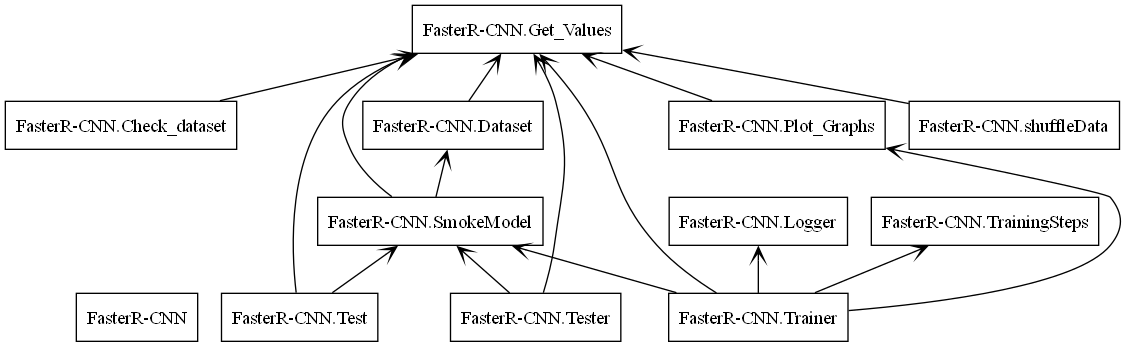
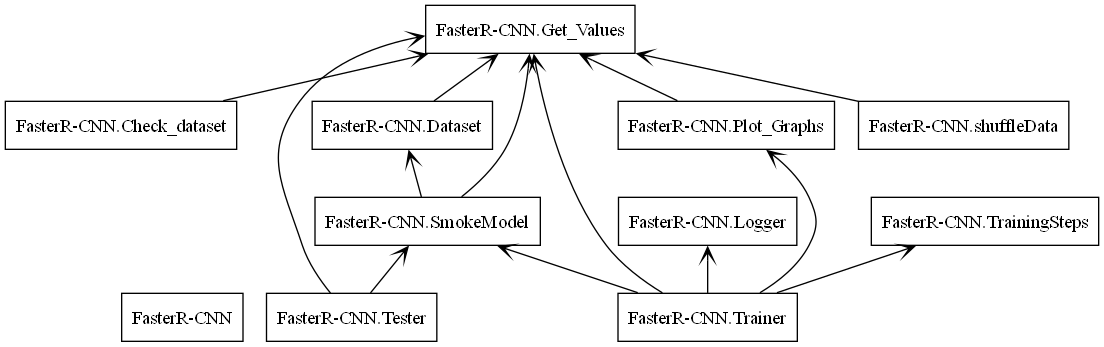
parallel processing

diff --git a/FasterR-CNN/Tester.py b/FasterR-CNN/Tester.py
@@ -1,22 +1,22 @@
 ### Testing model predictions
-import torch
-import xml.etree.ElementTree as ET
-from PIL import Image, ImageDraw
-from pathlib import Path
-from Get_Values import checkColab, setTestValues
 import os
-from torchmetrics.detection.mean_ap import MeanAveragePrecision
+import time
+import xml.etree.ElementTree as ET
+from pathlib import Path
+
 import matplotlib
 import matplotlib.pyplot as plt
-from torchvision.io import read_image
-from torchvision.utils import draw_bounding_boxes, draw_segmentation_masks
-import torch.utils.benchmark as benchmark
-from torchvision.ops import box_iou
-from tabulate import tabulate
-import time
-from SmokeModel import SmokeModel
 import torch
+import torch.utils.benchmark as benchmark
+import concurrent.futures
+from Get_Values import checkColab, setTestValues
+from SmokeModel import SmokeModel
+from tabulate import tabulate
+from torchmetrics.detection.mean_ap import MeanAveragePrecision
+from torchvision.ops import box_iou
 from torchvision.transforms import v2 as T
+from torchvision.utils import draw_bounding_boxes
+
 
 class Tester:
     #Constructor
@@ -73,7 +73,7 @@ class Tester:
         self.start_time = time.time()
         # Walks through dir_path, for each file call predictBbox and pass file path
         for batch, (image_tensor, filename) in enumerate(test_dataloader):
-            self.predictBbox(image_tensor, filename)
+            self.get_predictions(image_tensor, filename)
         self.get_results()
 
     # Transform images for model
@@ -84,46 +84,58 @@ class Tester:
         return T.Compose(transforms)
 
     # function to calculate the average time to make a prediction
-    def getAvgTime(self, benchmark_times):
+    def get_avg_time(self, benchmark_times):
         total_time = sum(benchmark_times)  # get sum
         avg_time = total_time / len(benchmark_times)  # get average
         return avg_time
 
     # !!GETTING PREDICTION!!
-    def predictBbox(self, image_tensor, filename):
-        global total_tp, total_fp, total_fn  # this makes me feel sick
+    def get_predictions(self, image_tensor, filename):
         # getting predictions
         self.model.to(self.device)  # put model on cpu or gpu
         # set model to evaluation mode
         self.model.eval()
-        #print("image:", image, "image_tensor", image_tensor, "filename", filename)
-        filename = filename[0] # tuples
-        x = image_tensor[0].to(self.device)
-        print("x.shape before", x.shape)
-        # print(x)
-        # 3 colour channels and move to device (pretty sure it already is)
-        #print(type(x))
-        print("x.shape after", x.shape)
+        # print("image:", image, "image_tensor", image_tensor, "filename", filename)
+        filenames = list(files for files in filename)
+        image_tensors = list(tensor.to(self.device) for tensor in image_tensor)
 
-        if self.benchmark == True:
-            # start torch.utils.benchmark
-            # will run the below code a second time to measure performance
-            timer = benchmark.Timer(
-                stmt="model([x, ])",  # specify code to be benchmarked
-                globals={"x": x, "model": self.model}  # pass x and model to be used by benchmark
-            )
-
-            # record time taken
-            time_taken = timer.timeit(5)  # run code n times, gives average = time taken / n
-            print(f"Prediction time taken: {time_taken.mean:.4f} seconds")
-            self.benchmark_times.append(time_taken.mean)
+        if torch.cuda.is_available():
+            torch.cuda.synchronize()
 
         with torch.no_grad():
-            # Create predictions
-            predictions, _ = self.model([x, ])  # val loss
-            pred = predictions[0]
+            # benchmarking
+            if self.benchmark == True:
+                # start torch.utils.benchmark
+                # will run the below code a second time to measure performance
+                timer = benchmark.Timer(
+                    stmt="model(image_tensors)",  # specify code to be benchmarked
+                    globals={"image_tensors": image_tensors, "model": self.model}  # pass x and model to be used by benchmark
+                )
 
+                # record time taken
+                time_taken = timer.timeit(3) # run code n times, gives average = time taken / n
+                time_taken_ind = time_taken.mean / setTestValues("BATCH_SIZE")
+                print(f"Prediction time taken: {time_taken_ind:.4f} seconds")
+                self.benchmark_times.append(time_taken_ind)
+
+            outputs, _ = self.model(image_tensors)
+            temp_index = 1
+            # parallel processing after getting model predictions, might aswell
+            futures = []
+            with concurrent.futures.ThreadPoolExecutor() as executor:
+                for image_tensor, prediction, filename in zip(image_tensor, outputs, filenames):
+                    print(f"{temp_index}! - pred:", prediction, filename)
+                    temp_index += 1
+                    futures.append(executor.submit(self.process_predictions, image_tensor, prediction, filename))
+                    #self.process_predictions(image_tensor, prediction, filename)
+            print("outputs", outputs)
+            concurrent.futures.wait(futures)
+
+    def process_predictions(self, image_tensor, predictions, filename):
+        global total_tp, total_fp, total_fn
+        pred = predictions
         # Normalize the image
+        x = image_tensor
         image = (255.0 * (x - x.min()) / (x.max() - x.min())).to(torch.uint8)
         # Filter predictions based on confidence score
         filtered_labels = []
@@ -143,9 +155,6 @@ class Tester:
         annotation_path = os.path.join(self.test_annot_dir, f"{image_id}.xml")
         ground_truth = self.parse_xml(annotation_path)
 
-        # get image size
-        image_size = predictions[0].get("image_size", [image.shape[1], image.shape[2]])
-
         # format predictions for mAP calculation
         predicted = {
             "boxes": torch.stack(filtered_boxes) if filtered_boxes else torch.empty((0, 4), dtype=torch.float),
@@ -155,17 +164,16 @@ class Tester:
         }
 
         # getting ground truth size (small, medium, large)
+        # filename stored with format in dict, might change dict later
         gt_size = self.image_gt_size.get(filename + ".jpeg")
         print(gt_size)
 
         # getting tp, tn, fp, fn for each image
-        metrics = self.getImageVal(
-            image_path=filename,
+        metrics = self.get_image_val(
             pred_score=predicted["scores"].to("cpu"),  # cpu or cry
             pred_box=predicted["boxes"].to("cpu"),
             ground_truth=ground_truth,
             confidence_threshold=self.confidence_threshold,
-            image_size=image_size,
             ap_value=self.ap_value,
             gt_size=gt_size
         )
@@ -188,20 +196,20 @@ class Tester:
             self.map_metricLargeB.update([predicted], [ground_truth])
 
         # mAP update
-        self.map_metricA.update([predicted], [ground_truth])
-        self.map_metricB.update([predicted], [ground_truth])
+        self.map_metricGlobalA.update([predicted], [ground_truth])
+        self.map_metricGlobalB.update([predicted], [ground_truth])
 
         if (self.draw_no_true_positive_only):
             if (metrics["TP"] == 0):
                 # call function to display image with overlayed bboxes
-                self.display_prediction(filtered_labels, filtered_boxes, filtered_scores, image, ground_truth)
+                self.display_prediction(filtered_labels, filtered_boxes, filtered_scores, image, ground_truth, metrics)
         else:
             # call function to display image with overlayed bboxes
-            self.display_prediction(filtered_labels, filtered_boxes, filtered_scores, image, ground_truth)
+            self.display_prediction(filtered_labels, filtered_boxes, filtered_scores, image, ground_truth, metrics)
 
     # function for each image gets the number of true positive, false positive, etc
-    def getImageVal(self, image_path, pred_score, pred_box, ground_truth, confidence_threshold, image_size, ap_value,
-                    gt_size):
+    def get_image_val(self, pred_score, pred_box, ground_truth, confidence_threshold, ap_value,
+                      gt_size):
         # Filter predictions by confidence score
         filtered_boxes = []
         filtered_scores = []
@@ -233,7 +241,7 @@ class Tester:
                     matched_gts.add(max_idx.item())
                 else:
                     fp_count['global'] += 1
-                    if gt_size != 'none':  # Update size counter if not none'
+                    if gt_size != 'none':  # Update size counter if not none
                         fp_count[gt_size] += 1
 
             # Ground truth boxes not matched are FN
@@ -251,7 +259,6 @@ class Tester:
 
         # Return dictionary with results
         return {
-            "image": image_path,
             "TP": tp_count,
             "FP": fp_count,
             "FN": fn_count
@@ -260,16 +267,18 @@ class Tester:
 
 
     # !!GETTING GROUND TRUTH AND MAP VALUES AND PRECISION/RECALL
-    # initialising mAP metrics
-    def initialise_metrics(self): # could chnage this but meh
-        self.map_metricA = MeanAveragePrecision(iou_type='bbox', iou_thresholds=[0.5])
-        self.map_metricB = MeanAveragePrecision(iou_type='bbox', iou_thresholds=[0.3])
+    # function initialising mAP metrics
+    def initialise_metrics(self):
+        # kind of ugly but changing this would just make things way more complicated for no gain
+        self.map_metricGlobalA = MeanAveragePrecision(iou_type='bbox', iou_thresholds=[0.5])
+        self.map_metricGlobalB = MeanAveragePrecision(iou_type='bbox', iou_thresholds=[0.3])
         self.map_metricSmallA = MeanAveragePrecision(iou_type='bbox', iou_thresholds=[0.5])
         self.map_metricSmallB = MeanAveragePrecision(iou_type='bbox', iou_thresholds=[0.3])
         self.map_metricMediumA = MeanAveragePrecision(iou_type='bbox', iou_thresholds=[0.5])
         self.map_metricMediumB = MeanAveragePrecision(iou_type='bbox', iou_thresholds=[0.3])
         self.map_metricLargeA = MeanAveragePrecision(iou_type='bbox', iou_thresholds=[0.5])
         self.map_metricLargeB = MeanAveragePrecision(iou_type='bbox', iou_thresholds=[0.3])
+        self.map_metricLocal = MeanAveragePrecision(iou_type='bbox', iou_thresholds=[0.3])
 
     # Need ground truths to calculate mAP
     # Function parse xml for ground truths (copied from Dataset class)
@@ -347,10 +356,10 @@ class Tester:
         categorized_images_dict = {}
 
         for root, dirs, files in os.walk(test_image_dir):
-            for file_name in files:
-                if file_name.endswith(".jpeg"): # dont really need but whatever
+            for filename in files:
+                if filename.endswith(".jpeg"): # dont really need but whatever
                     # Get corresponding XML annotation file
-                    get_annotation = os.path.join(test_annot_dir, file_name.replace(".jpeg", ".xml")) # image and annot have same names
+                    get_annotation = os.path.join(test_annot_dir, filename.replace(".jpeg", ".xml")) # image and annot have same names
 
                     # Parse XML to get areas (ground truth)
                     ground_truth_area = self.parse_xml(get_annotation, True)
@@ -370,7 +379,7 @@ class Tester:
                         size_category = "none"
 
                     # Store the size category in dictionary
-                    categorized_images_dict[file_name] = size_category
+                    categorized_images_dict[filename] = size_category
 
         # Count occurrences of each size
         size_counts = {"small": 0, "medium": 0, "large": 0, "none": 0}
@@ -411,7 +420,7 @@ class Tester:
 
 
     # !!VISUALISATIONS!!
-    def display_prediction(self, filtered_labels, filtered_boxes, filtered_scores, image, ground_truth):
+    def display_prediction(self, filtered_labels, filtered_boxes, filtered_scores, image, ground_truth, metrics):
         if (self.plot_image == False):
             matplotlib.use('Agg')
         # !!! DISPLAYING PREDICTIONS THROUGH MATPLOT LIB !!!
@@ -438,6 +447,8 @@ class Tester:
         # draw ground truth bbox over predicted bbox over image
         output_image = draw_bounding_boxes(output_image, torch.stack(ground_truth_boxes),
                                            ["Ground Truth"] * len(ground_truth_boxes), colors="blue")
+
+        # registry increased ide.rest.api.request.per.minute to 100
         if (self.plot_image):
             time.sleep(2)
         plt.figure(figsize=(12, 12))
@@ -448,7 +459,7 @@ class Tester:
     # starting chain to display results
     def get_results(self):
         if self.benchmark:
-            avg_benchmark = str(round(self.getAvgTime(self.benchmark_times), 2)) + " seconds"
+            avg_benchmark = str(round(self.get_avg_time(self.benchmark_times), 2)) + " seconds"
         else:
             avg_benchmark = "N/A"
 
@@ -469,10 +480,10 @@ class Tester:
         self.final_mapLargeA = self.map_metricLargeA.compute()
         self.map_metricLargeB.sync()
         self.final_mapLargeB = self.map_metricLargeB.compute()
-        self.map_metricA.sync()
-        self.final_mapA = self.map_metricA.compute()
-        self.map_metricB.sync()
-        self.final_mapB = self.map_metricB.compute()
+        self.map_metricGlobalA.sync()
+        self.final_mapA = self.map_metricGlobalA.compute()
+        self.map_metricGlobalB.sync()
+        self.final_mapB = self.map_metricGlobalB.compute()
         # get precission and recall
         precision_recall = self.calculate_total_precision_recall()
         # get max vram

diff --git a/FasterR-CNN/SmokeModel.py b/FasterR-CNN/SmokeModel.py
@@ -42,13 +42,15 @@ class SmokeModel:
 
         return self.model, in_features, self.model.roi_heads.box_predictor
 
-    # function to get train, validate and test dataloaders
+    # functions to get train, validate and test dataloaders
     def get_dataloader(self):
         num_workers = os.cpu_count() # threads available
         batch_size = setTrainValues("BATCH_SIZE")
         test_batch_size = setTestValues("BATCH_SIZE")
         dataset_dir = Path(f"{self.base_dir}/Dataset/" + setTrainValues("dataset"))
         test_dataset_dir = Path(f"{self.base_dir}/Dataset/" + setTestValues("dataset"))
+
+        # splitting up dataloaders to only get them as needed
 
         # Load datasets
         train_dir = Dataset.smokeDataset(str(dataset_dir) + "/Train", Dataset.transform_train_validate)
@@ -63,6 +65,7 @@ class SmokeModel:
             collate_fn=collate_fn,
             shuffle=True # only shuffle while training
         )
+
         self.validate_dataloader = DataLoader(
             dataset=val_dir,
             batch_size=batch_size,
@@ -70,6 +73,7 @@ class SmokeModel:
             collate_fn=collate_fn,
             shuffle=False
         )
+
         self.test_dataloader = DataLoader(
             dataset=test_dir,
             batch_size=test_batch_size,

diff --git a/FasterR-CNN/Dataset.py b/FasterR-CNN/Dataset.py
@@ -12,6 +12,7 @@ import matplotlib.pyplot as plt
 from torchvision.transforms import transforms
 from Get_Values import checkColab, setTrainValues
 from torch.utils.data import Dataset
+from multiprocessing import Pool
 
 
 ### !!IMAGE TRANSFORMATIONS!!
@@ -47,6 +48,9 @@ class smokeDataset(torch.utils.data.Dataset):
     self.annotations = list(Path(str(main_dir) + "/annotations/xmls").glob("*.xml")) # set to list of all xml files
     self.transform = transform
     self.testing = testing
+
+
+
     # Constructor END
 
   def parse_xml(self, annotation_path, testing = False):
@@ -144,8 +148,8 @@ class smokeDataset(torch.utils.data.Dataset):
     if (self.transform and self.testing):
         transformed = self.transform(image=image)
         image_tensor = transformed['image']
-        print(image.dtype)
-        print(image.shape)
+        #print(image.dtype)
+        #print(image.shape)
         return image_tensor, filename
 
 

diff --git a/FasterR-CNN/Get_Values.py b/FasterR-CNN/Get_Values.py
@@ -7,7 +7,7 @@ def setTrainValues(val_to_get):
         "BATCH_SIZE": 1,
         "EPOCHS": 25,
         "PATIENCE": 4,
-        "dataset": "Small data", # "Small data" OR "Large data"
+        "dataset": "Large data", # "Small data" OR "Large data"
         "model_name": "BaselineColabT4", # name of saved model
         "plotJSON_fname": "BaselineColabT4" # json filename
     }
@@ -17,7 +17,7 @@ def setTrainValues(val_to_get):
 def setTestValues(val_to_get):
     # Create dictionary with  values
     test_values = {
-        "BATCH_SIZE": 1,
+        "BATCH_SIZE": 4,
         "dataset": "Large data", # "Small data" OR "Large data"
         "model_name": "BaselineLocalRTX2080" # name of model to test
     }
